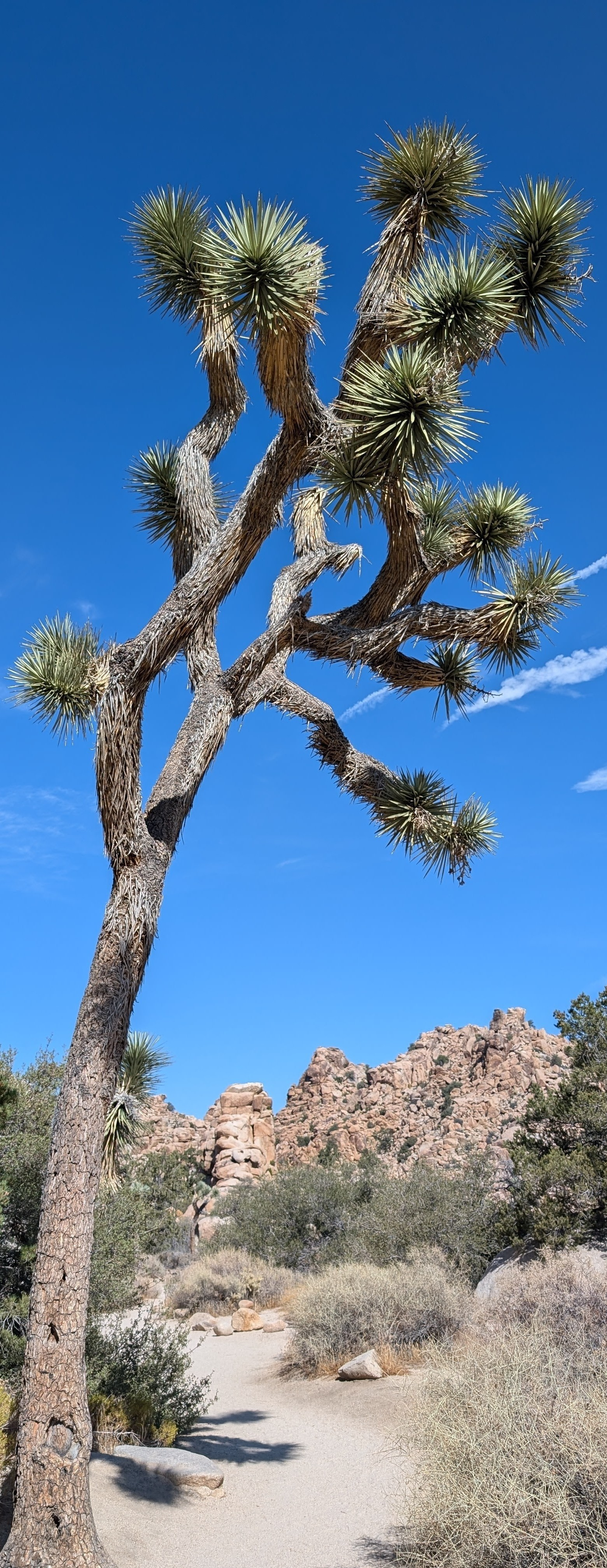
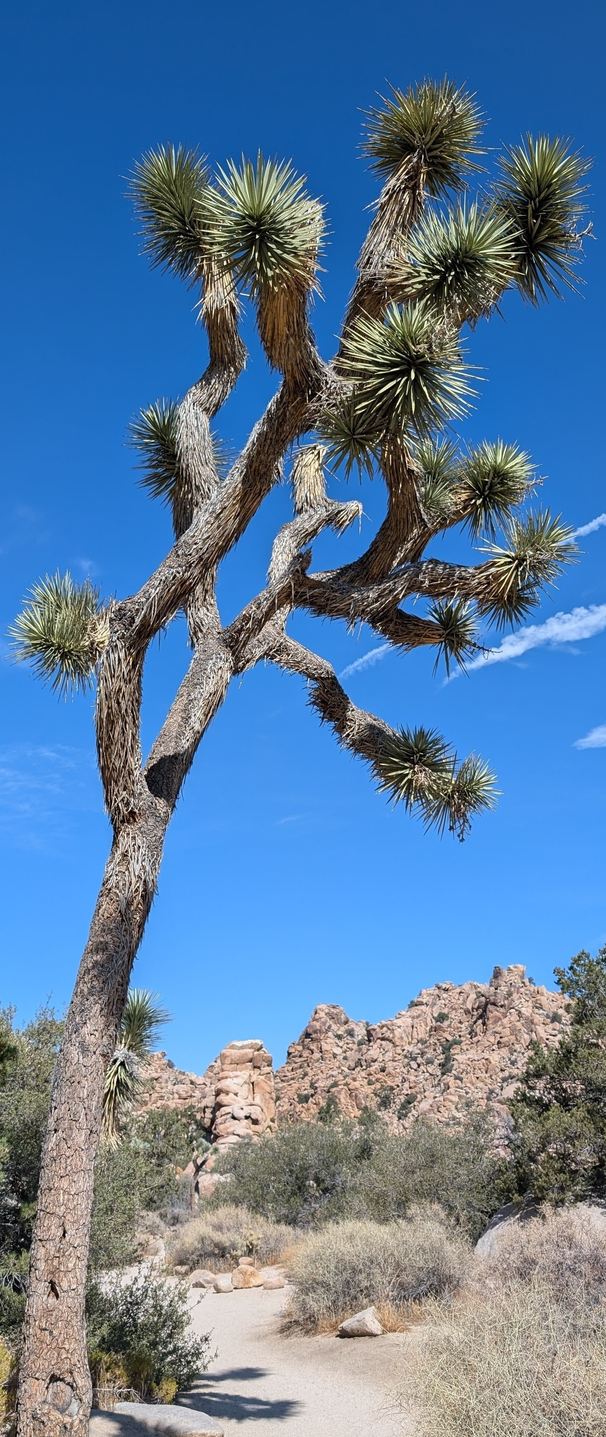
Restructured the webpage a bit. Added more cloud pics.

diff --git a/index.html b/index.html
@@ -36,7 +36,7 @@
 			</header>
 
 			<script>
-			random = Math.floor(Math.random()*16).toString();
+			random = Math.floor(Math.random()*36).toString();
 			pre = "url('assets/css/images/overlay.png'), url('images/bg"
 			url = pre.concat(random,".jpg")
 			document.getElementById("header").style.backgroundImage = url;
@@ -65,7 +65,7 @@
 					
 							<b>Email:</b> I can be reached at : ag4680 |at| stanford |dot| edu, or ag4680 [at] nyu [dot] edu<br /><br />
 
-							When it comes to photography, I am pretty much a monkey with a camera, but I love clicking clouds. Upon each refresh, the webpage randomly picks one of the nature photos I have clicked (mostly clouds!) as the header image. 
+							When it comes to photography, I am pretty much a monkey with a camera, but I love clicking clouds. The header image changes upon each refresh and the webpage randomly picks one of the nature photos I have clicked (mostly clouds). Gravity waves and orographic lifting too can be spotted in some! 
 							</p>
 
 
@@ -98,7 +98,7 @@
 						<!---amangupta2 google drive: https://shorturl.at/9d3Jl--->
 						<p style="font-size=50pt">Please refer to <a href="https://goo.gl/cHk1Qi" target="_blank"><b>my CV</b></a> and my <a href="https://scholar.google.com/citations?user=fk-F8bsAAAAJ&hl=en" target="_blank"><b>Google Scholar profile</b></a> for details. Please contact me for access to any of my publications behind a paywall.
 
-						<h2>2025</h2>
+						<h2>Machine Learning for Weather & Climate Modeling</h2>
 						<div class="row">
 							<article class="col-6 col-12-xsmall work-item">
 								<a href="images/mausam.png" class="image fit thumb"><img src="images/mausam.png" alt="" /></a>
@@ -118,10 +118,6 @@
 								<p>We develop a hierarchy of data-driven parameterizations for atmospheric gravity waves to represent their nonlocal propagation effects. The most nonlocal deep learning model offers the best performance on both instantaneous predictions and seasonal averages. This highlights the importance of embedding physical nonlocality when developing data-driven subgrid parameterization of mesoscale atmospheric processes.</p>
 								<p><a href="https://agupubs.onlinelibrary.wiley.com/doi/10.1029/2025MS004977" target="_blank">[paper]</a> <a href="talks/nonlocal_gw_param_baco2025.pdf" target="_blank">[slides]</a></p>
 							</article>
-						</div>
-
-						<h2>2024</h2>
-						<div class="row">
 							<article class="col-6 col-12-xsmall work-item">
 								<a href="images/prithvi.png" class="image fit thumb"><img src="images/prithvi.png" alt="" /></a>
 								<h3>Prithvi WxC: A Foundation Model for Weather and Climate Applications.</h3> 
@@ -129,32 +125,10 @@
 								<p><a href="https://arxiv.org/abs/2409.13598" target="_blank">[paper]</a>
 							</article>
 							<article class="col-6 col-12-xsmall work-item">
-								<a href="images/scidata_fluxes.jpg" class="image fit thumb"><img src="images/scidata_fluxes.jpg" alt="" /></a>
-								<h3>A computationally tractable method to compute small-scale momentum fluxes using Helmholtz decomposition.</h3> 
-								<p>Using existing Python spherical harmonics packages out-of-the-box one can compute small-scale momentum fluxes from a kilometer-scale global climate model, using Helmholtz, in around 600 calendar days (on a typical supercomputer with limited node allocation). We optimized the workflow and reduced it to just 15! The fluxes are now publicly available for anyone to use.</p>
-								<p><a href="https://doi.org/10.1038/s41597-024-03699-x" target="_blank">[paper]</a> <a href="https://osf.io/gx32s/" target="_blank">[dataset]</a></p>
-							</article>
-							<article class="col-6 col-12-xsmall work-item">
 								<a href="images/ml_era5_unet.jpg" class="image fit thumb"><img src="images/icml_schematic.gif" alt="" /></a>
-								<h3>Our ICML'24 paper on machine learning representation of mesoscale gravity waves.</h3>
+								<h3>ICML'24 paper on machine learning representation of mesoscale gravity waves.</h3>
 								<p>Large AI models are demonstrably good at simulating the large-scale atmospheric evolution but struggle with small-scales. In this paper, we show how deep learning models can be effectively used to generate flux predictors for small-scale processes using a hierarchy of modeling architectures: from single-column ANNs to regionally nonlocal ANNs to global Attention U-Net CNNs. The proof-of-concept indicates that data-driven parameterization can be effectively used to represent mesoscale dynamical processes in climate models.</p>
 								<p><a href="https://arxiv.org/abs/2406.14775" target="_blank">[paper]</a> <a href="https://mesreflexions2.wordpress.com/2024/07/13/machine-learning-representation-of-atmospheric-gravity-waves/" target="blank">[blog]</a></p>
-							</article>
-							<article class="col-6 col-12-xsmall work-item">
-								<a href="images/UW_NH.gif" class="image fit thumb"><img src="images/UW_NH.gif" alt="" /></a>
-								<h3>Does horizontal propagation of gravity waves matter for midltitude stratospheric circulation? Yes, here's a quantitative evaluation.</h3>
-								<p>The reason for horizontal propagation of mesoscale atmospheric waves is well-known, but its true impact on long timescales has not been well-quantified. This study quantifies the contribution of horizontal propagation (due to wave refraction, Doppler shifting etc.) on the midlatitude stratospheric circulation.</p>
-								<p><a href="https://doi.org/10.1029/2024GL108541" target="_blank">[paper]</a> <a href="talks/latprop_seminar_dlr_may2024.pdf" target="_blank">[slides]</a></p>
-							</article>
-						</div>
-
-						<h2>2023</h2>
-						<div class="row">
-							<article class="col-6 col-12-xsmall work-item">
-								<a href="images/lidar_era5_ifs.jpg" class="image fit thumb"><img src="images/IFS1km_August2019_animation.gif" scale="40%" alt="" /></a>
-								<h3>Estimating gravity wave momentum fluxes in the Southern Hemisphere</h3>
-								<p>by blending LIDAR observations, renanalyis, 1 km global models, and coarse climate models</p>
-								<p> <a href="https://doi.org/10.1175/JAS-D-23-0095.1" target="_blank">[paper]</a> <a href="talks/gwflux_sparcGA_oct2022_poster.pdf" target="_blank">[poster]</a> <a href="https://mesreflexions2.wordpress.com/2024/09/18/gravity-waves-in-a-1-km-global-hydrostatic-experimental-model-run/" target="_blank">[blog]</a></p>
 							</article>
 							<article class="col-6 col-12-xsmall work-item">
 								<a href="images/model_hierarchy.jpg" class="image fit thumb"><img src="images/model_hierarchy.jpg" alt="" /></a>
@@ -163,8 +137,37 @@
 								<p><a href="https://doi.org/10.1029/2023MS003715" target="_blank">[paper]</a></p>
 							</article>
 						</div>
+						<br />
 
-						<h2>2022</h2>
+						<h2>Atmospheric Gravity Waves and the Global Circulation</h2>
+						<div class="row">
+							<article class="col-6 col-12-xsmall work-item">
+								<a href="images/scidata_fluxes.jpg" class="image fit thumb"><img src="images/scidata_fluxes.jpg" alt="" /></a>
+								<h3>A computationally tractable method to compute small-scale momentum fluxes using Helmholtz decomposition.</h3> 
+								<p>Using existing Python spherical harmonics packages out-of-the-box one can compute small-scale momentum fluxes from a kilometer-scale global climate model, using Helmholtz, in around 600 calendar days (on a typical supercomputer with limited node allocation). We optimized the workflow and reduced it to just 15! The fluxes are now publicly available for anyone to use.</p>
+								<p><a href="https://doi.org/10.1038/s41597-024-03699-x" target="_blank">[paper]</a> <a href="https://osf.io/gx32s/" target="_blank">[dataset]</a></p>
+							</article>
+							<article class="col-6 col-12-xsmall work-item">
+								<a href="images/UW_NH.gif" class="image fit thumb"><img src="images/UW_NH.gif" alt="" /></a>
+								<h3>Does horizontal propagation of gravity waves matter for midltitude stratospheric circulation? Yes, here's a quantitative evaluation.</h3>
+								<p>The reason for horizontal propagation of mesoscale atmospheric waves is well-known, but its true impact on long timescales has not been well-quantified. This study quantifies the contribution of horizontal propagation (due to wave refraction, Doppler shifting etc.) on the midlatitude stratospheric circulation.</p>
+								<p><a href="https://doi.org/10.1029/2024GL108541" target="_blank">[paper]</a> <a href="talks/latprop_seminar_dlr_may2024.pdf" target="_blank">[slides]</a></p>
+							</article>
+							<article class="col-6 col-12-xsmall work-item">
+								<a href="images/lidar_era5_ifs.jpg" class="image fit thumb"><img src="images/IFS1km_August2019_animation.gif" scale="40%" alt="" /></a>
+								<h3>Estimating gravity wave momentum fluxes in the Southern Hemisphere</h3>
+								<p>by blending LIDAR observations, renanalysis, kilometer-scale global models, and coarse climate models</p>
+								<p> <a href="https://doi.org/10.1175/JAS-D-23-0095.1" target="_blank">[paper]</a> <a href="talks/gwflux_sparcGA_oct2022_poster.pdf" target="_blank">[poster]</a> <a href="https://mesreflexions2.wordpress.com/2024/09/18/gravity-waves-in-a-1-km-global-hydrostatic-experimental-model-run/" target="_blank">[blog]</a></p>
+							</article>
+							<article class="col-6 col-12-xsmall work-item">
+								<a href="images/gw_drakepassage.jpg" class="image fit thumb"><img src="images/gw_drakepassage.jpg" alt="" /></a>
+								<h3>Importance of gravity waves for springtime stratospheric circulation</h3>
+								<p><a href="https://doi.org/10.1029/2021GL092762" target="_blank">[paper]</a> <a href="talks/gw_seminar_lmu_mar2021.pdf" target="_blank">[slides]</a></p>
+							</article>
+						</div>
+						<br />
+
+						<h2>Stratosphere-Troposphere Coupling and Trace Gas Transport</h2>
 						<div class="row">
 							<article class="col-6 col-12-xsmall work-item">
 								<a href="images/tropics_nomixing.jpg" class="image fit thumb"><img src="images/tropics_nomixing.jpg" alt="" /></a>
@@ -175,25 +178,12 @@
 								<a href="images/tracer_dispersion_sw_regime.jpg" class="image fit thumb"><img src="images/tracer_dispersion_sw_regime.jpg" alt="" /></a>
 								<h3>Wave-enhanced Tracer Dispersion</h3>
 								<p><a href="https://doi.org/10.1029/2022JD037712" target="_blank">[paper]</a></p>
-							</article>
-						</div>
-
-						<h2>2021</h2>
-						<div class="row">
-							<article class="col-6 col-12-xsmall work-item">
-								<a href="images/gw_drakepassage.jpg" class="image fit thumb"><img src="images/gw_drakepassage.jpg" alt="" /></a>
-								<h3>Importance of gravity waves for springtime stratospheric circulation</h3>
-								<p><a href="https://doi.org/10.1029/2021GL092762" target="_blank">[paper]</a> <a href="talks/gw_seminar_lmu_mar2021.pdf" target="_blank">[slides]</a></p>
-							</article>
+							</article>							
 							<article class="col-6 col-12-xsmall work-item">
 								<a href="images/bdc_schematic.jpg" class="image fit thumb"><img src="images/bdc_schematic.jpg" alt="" /></a>
 								<h3>Understanding trace gas transport differences among climate models</h3>
 								<p><a href="https://doi.org/10.1175/JAS-D-21-0085.1" target="_blank">[paper]</a> <a href="talks/transport_talk_lmu_may2020.pdf" target="_blank">[slides]</a></p>
 							</article>
-						</div>
-
-						<h2>2020</h2>
-						<div class="row">
 							<article class="col-6 col-12-xsmall work-item">
 								<a href="images/age_benchmark.jpg" class="image fit thumb"><img src="images/age_benchmark.jpg" alt="" /></a>
 								<h3>How robust is trace gas transport representation in state-of-the-art climate models?</h3>
